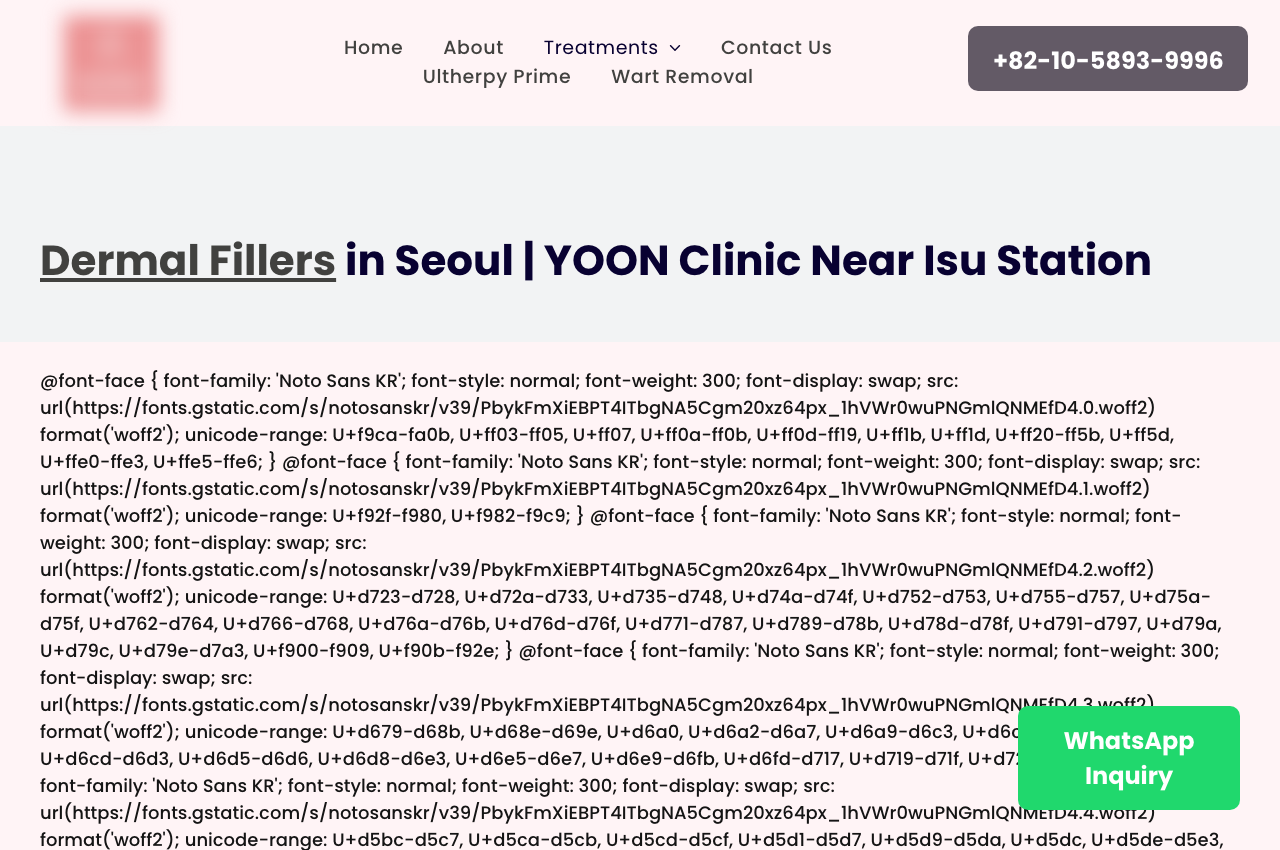
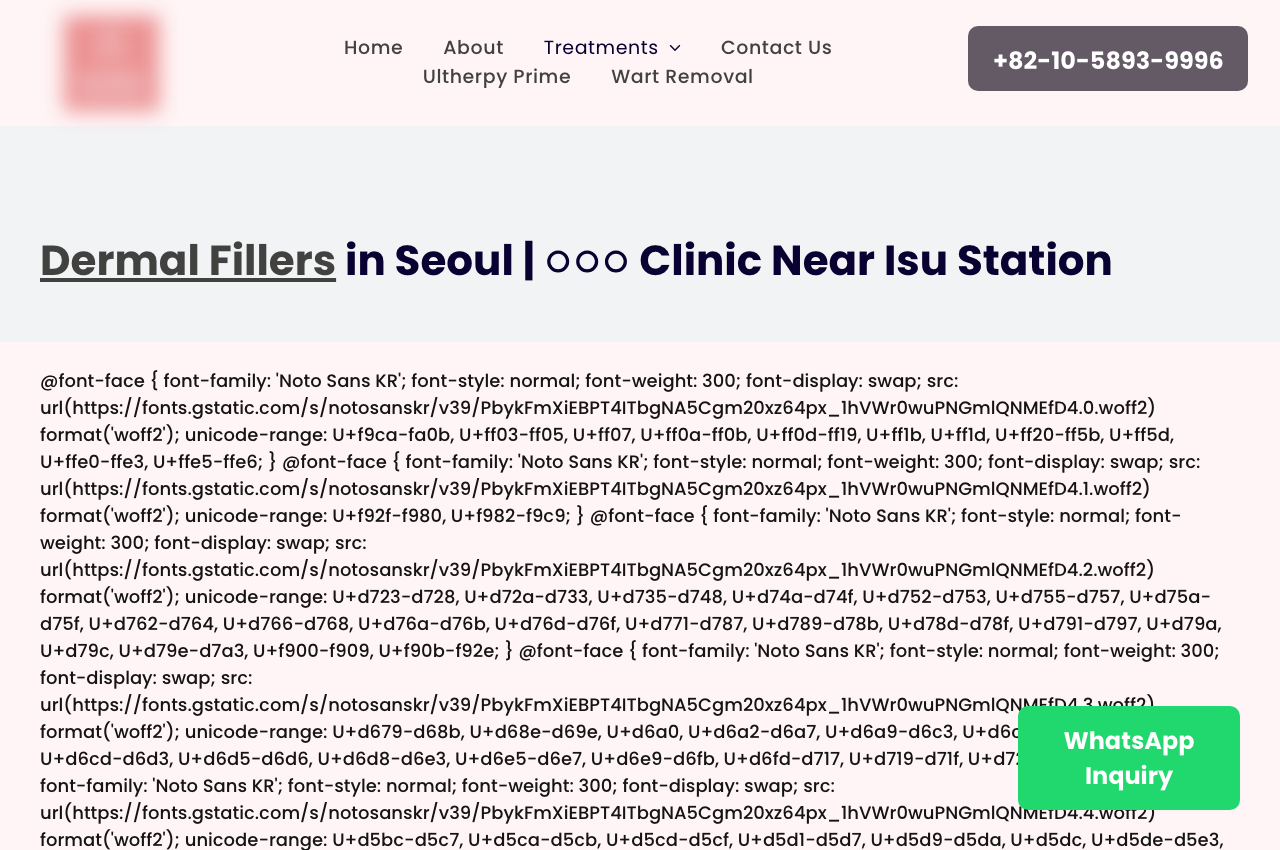
지적 사항 일괄 수정 (94장)
- 방치 페이지 캡처 재촬영: Yoon 표기까지 마스킹
- 사례 커버: '이 순서를 적용한 기록' → '실제 사례, 서울의 한
  피부과' + 작업 내용 부제(검색 노출 · 원장 프로필 · 영문 사이트)
- 계절 키워드 화면을 깃허브 V1(개발자 협업판) /demo 검색 트렌드로
  교체 (급상승 검색어 · 월별 추이)
- 월간 브리프를 ○○○의원 실제 브리프(clinic-geo-monitor 생성,
  마스킹)로 교체, 관측 방법 박스는 한 줄로 축소
- '먼저 이길 질문' → '좁은 질문부터 선점하기', 우선순위 공식을
  하단 작은 글씨에서 rsub(좌상단 본문)로 승격
- 리드젠랩 · OntheAI 등 경쟁사 명칭 출처 제거 → '업계 공개 분석
  데이터 · 자체 검증 전'으로 일반화
- 정보 일치(마감시간) 표 → 가상의 예시 SVG (3채널 카드가 점선으로
  AI 칩에 모임 · 'GEO 하기 전에 이것부터'를 본문 위치로)
- 인박스 항목 건조화(채널별 문의 통합 등) · 원장 프로필 캡처를
  경력 텍스트 구간으로 재촬영

Changed region(s): [[0.4062, 0.2753, 0.9062, 0.3365]]

diff --git a/index.html b/index.html
@@ -869,7 +869,7 @@
       <li>구글 1위 글이 챗GPT 답변에는 안 나오는 경우가 흔함</li>
       <li>반대로 순위 낮은 글이 인용되기도 함 · 기준이 다르기 때문</li>
     </ul>
-    <p class="srcline">출처 : Onthe AI 블로그 공개 자료 (2026) · 해당 업체 고객 데이터 기준</p>
+    <p class="srcline">출처 : 국내 GEO 업계 공개 분석 ) · 해당 업체 고객 데이터 기준</p>
   </section>
 
   <section class="slide content tint">
@@ -920,7 +920,7 @@
       <li>챗GPT 하나만 검색해 보고 "우리 잘 나오네"로 판단할 수 없음</li>
       <li>질문 하나가 곧 경쟁 병원 5곳과의 비교 화면</li>
     </ul>
-    <p class="srcline">출처 : Onthe AI 블로그 공개 분석 (2026) · 해당 업체 데이터 기준</p>
+    <p class="srcline">출처 : 국내 GEO 업계 공개 분석 ) · 업체 공개 데이터 기준 · 자체 검증 전</p>
   </section>
 
   <section class="slide content tint">
@@ -1159,8 +1159,7 @@
       <div class="smq"><div class="sn">5</div><div class="st">검증</div><div class="sd">"A원장 경력이랑 후기 알려줘"</div></div>
     </div>
     <p class="note">1~2번에는 병원명이 없고, 4~5번에서 병원명 · 원장명이 등장 · 단계마다 답이 되는 문서가 다름</p>
-    <p class="srcline">질문 여정을 단계로 나누는 구분은 업계 프레임 (리드젠랩 공개 자료 : 증상 → 병원 탐색 → 특정 병원 확인)</p>
-  </section>
+    </section>
 
   <section class="slide content">
     <span class="eyebrow accent">질문 단위</span>
@@ -1267,13 +1266,41 @@
   <section class="slide content tint">
     <span class="eyebrow accent">정보 일치</span>
     <h2>같은 병원, 채널마다 다른 정보</h2>
-    <div class="numrow" style="margin-bottom:14px">
-      <div><div class="nv" style="color:var(--ink-soft)">19시</div><div class="nl">플레이스 마감</div></div>
-      <div><div class="nv" style="color:var(--ink-soft)">20시</div><div class="nl">홈페이지 마감</div></div>
-      <div><div class="nv" style="color:var(--ink-soft)">21시</div><div class="nl">블로그 글 속 마감</div></div>
-      <div><div class="nv down">?</div><div class="nl">AI가 답하는 마감</div></div>
+    <p class="rsub">GEO 하기 전에 이것부터 맞춰야 하는 병원도 많습니다 · 가상의 예시</p>
+    <div style="margin-top:12px">
+    <svg viewBox="0 0 1140 330" style="width:100%;height:auto;font-family:inherit">
+      <g fill="none" stroke="#c3ccd8" stroke-width="1.4" stroke-dasharray="3 9">
+        <path d="M190 176 C 300 240 440 260 540 262"/>
+        <path d="M450 176 C 500 220 530 240 555 252"/>
+        <path d="M710 176 C 660 220 620 240 590 252"/>
+      </g>
+      <g>
+        <rect x="90" y="60" width="200" height="116" rx="14" fill="#fff" stroke="#dfe4ec"/>
+        <circle cx="122" cy="92" r="10" fill="none" stroke="#8a919c" stroke-width="1.6"/><path d="M122 86v6l4 3" stroke="#8a919c" stroke-width="1.6" fill="none"/>
+        <text x="145" y="97" font-size="13.5" fill="#5b6b84">플레이스</text>
+        <text x="112" y="140" font-size="21" font-weight="600" fill="#16324f">마감 19:00</text>
+        <rect x="350" y="60" width="200" height="116" rx="14" fill="#fff" stroke="#dfe4ec"/>
+        <rect x="368" y="82" width="22" height="16" rx="3" fill="none" stroke="#8a919c" stroke-width="1.6"/>
+        <text x="400" y="97" font-size="13.5" fill="#5b6b84">홈페이지</text>
+        <text x="372" y="140" font-size="21" font-weight="600" fill="#16324f">마감 20:00</text>
+        <rect x="610" y="60" width="200" height="116" rx="14" fill="#fff" stroke="#dfe4ec"/>
+        <path d="M630 82h20v16h-14l-6 5z" fill="none" stroke="#8a919c" stroke-width="1.6"/>
+        <text x="660" y="97" font-size="13.5" fill="#5b6b84">블로그 글</text>
+        <text x="632" y="140" font-size="21" font-weight="600" fill="#16324f">마감 21:00</text>
+      </g>
+      <g>
+        <rect x="450" y="252" width="240" height="60" rx="14" fill="#eef4fd" stroke="#9db8e8"/>
+        <path d="M486 274l1.4 3.8 3.8 1.3-3.8 1.4-1.4 3.7-1.3-3.7-3.8-1.4 3.8-1.3z" fill="none" stroke="#246beb" stroke-width="1.6"/>
+        <text x="585" y="286" text-anchor="middle" font-size="16" font-weight="600" fill="#003675">AI가 답하는 마감 : ?</text>
+      </g>
+      <g>
+        <rect x="880" y="70" width="230" height="96" rx="14" fill="#f4f5f7" stroke="#e2e5ea"/>
+        <text x="995" y="106" text-anchor="middle" font-size="14" font-weight="600" fill="#6b7380">셋 중 무엇을 믿어야 할까</text>
+        <text x="995" y="130" text-anchor="middle" font-size="12.5" fill="#8a919c">틀린 답의 원인은 대부분</text>
+        <text x="995" y="148" text-anchor="middle" font-size="12.5" fill="#8a919c">병원이 남긴 옛 정보</text>
+      </g>
+    </svg>
     </div>
-    <p class="note">GEO 하기 전에 이것부터 맞춰야 하는 병원도 많습니다</p>
   </section>
 
   <section class="slide content">
@@ -1585,7 +1612,8 @@
 
   <section class="slide content">
     <span class="eyebrow accent">우선순위</span>
-    <h2>먼저 이길 질문 · 좁은 질문부터</h2>
+    <h2>좁은 질문부터 선점하기</h2>
+    <p class="rsub">우선순위 판단 : 시장 크기 × 우리 전문성 × 보유 콘텐츠 × 경쟁 강도 × 환자 가치</p>
     <div class="cmp">
       <div class="col bad"><div class="h">넓은 질문</div><div style="display:flex;gap:8px;align-items:center;margin-top:10px"><svg viewBox="0 0 24 24" style="width:21px;height:21px;fill:none;stroke:#8a919c;stroke-width:1.7;stroke-linecap:round;stroke-linejoin:round"><circle cx="12" cy="12" r="9"/><path d="M3.5 12h17"/></svg><span style="font-size:12px;color:#8a919c">정면 경쟁</span></div>
         <ul>
@@ -1600,9 +1628,7 @@
           <li><i class="mk o">·</i><span>진료 기준이 드러나는 질문 · 답하는 병원이 적음</span></li>
         </ul></div>
     </div>
-    <p class="note">우선순위 판단 : 시장 크기 × 우리 전문성 × 보유 콘텐츠 × 경쟁 강도 × 환자 가치</p>
-    <p class="srcline">대표 시술의 넓은 질문보다 강점 시술 · 증상 질문을 나눠 기준선을 측정하는 접근 (리드젠랩 공개 자료)</p>
-  </section>
+    </section>
 
   <section class="slide content tint">
     <span class="eyebrow accent">측정 루프</span>
@@ -1618,7 +1644,7 @@
       <div class="harrow"><svg viewBox="0 0 24 24"><path d="M5 12h14M13 6l6 6-6 6"/></svg></div>
       <div class="hstep"><div class="hn">5</div><div class="ht">재측정</div><div class="hd">같은 질문으로 → 1</div></div>
     </div>
-    <p class="srcline">업계 사례 : 48시간 주기 · 최대 200개 질문 모니터링 (Onthe AI 공개 자료) · 병원은 여기에 의료광고법 · 네이버 · 리뷰 · 다국어가 더해짐</p>
+    <p class="srcline">업계 사례 : 48시간 주기 · 최대 200개 질문 모니터링 (업계 공개 자료) · 병원은 여기에 의료광고법 · 네이버 · 리뷰 · 다국어가 더해짐</p>
   </section>
 
   <section class="slide content tint">
@@ -1628,17 +1654,10 @@
     <div class="ev two">
       <div class="evshot"><div class="eh"><b>GEO 모니터</b> 일일 관측<span class="src">2026.08</span></div>
         <figure><img src="assets/work/monitor-yoon.png" alt="GEO 모니터" /></figure></div>
-      <div class="evshot"><div class="eh"><b>월간 브리프</b> 원장 전달본<span class="src">2026.08</span></div>
-        <figure><img src="assets/work/doctor-brief.png" alt="월간 브리프" /></figure></div>
+      <div class="evshot"><div class="eh"><b>월간 브리프</b> ○○○의원 원장 전달본<span class="src">2026.08</span></div>
+        <figure><img src="assets/work/yoon-brief.png" alt="월간 브리프" /></figure></div>
     </div>
-    <div class="doc" style="margin-top:10px;padding:14px 18px">
-      <div style="display:flex;gap:22px;flex-wrap:wrap;font-size:13px;color:var(--ink-soft)">
-        <span><b style="color:var(--accent-deep)">관측 방법</b></span>
-        <span>검색어 · 질문 목록 고정</span><span>주기 고정 (일 단위)</span>
-        <span>같은 질문 반복 측정</span><span>수집 시점 · 엔진을 리포트에 명기</span>
-      </div>
-    </div>
-    <p class="note">오른 것이 없으면 없다고 적음 · 관측 결과가 다음 달 작업 목록을 정함 · AI 답변은 확률적이라 한 번 캡처로 판단하지 않음</p>
+    <p class="note" style="margin-top:8px"><b style="color:var(--accent-deep)">관측 방법</b> · 검색어 · 질문 목록 고정 · 주기 고정(일 단위) · 같은 질문 반복 측정 · 수집 시점 · 엔진 명기 · 오른 것이 없으면 없다고 적음 · 관측 결과가 다음 달 작업 목록을 정함 · AI 답변은 확률적이라 한 번 캡처로 판단하지 않음</p>
   </section>
 
   <section class="slide content tint">
@@ -1700,10 +1719,10 @@
         <figure><img src="assets/work/crm-inbox.png" alt="상담 인박스" /></figure></div>
       <div>
         <ul class="wlist">
-          <li>문의가 채널별로 <b>한 화면에</b> · 미응대부터 처리</li>
-          <li>병원 카탈로그 근거로 <b>AI가 답변 초안</b> · 실장은 확인 · 전송</li>
-          <li>외국인 문의도 같은 화면에서 · <b>언어 장벽으로 놓치는 예약 감소</b></li>
-          <li>응대 속도가 곧 전환율 · 놓친 문의가 곧 이탈</li>
+          <li><b>채널별 문의 통합</b> · 미응대 우선 처리</li>
+          <li>병원 카탈로그 기반 <b>AI 답변 초안</b> · 실장 확인 후 전송</li>
+          <li>외국인 문의 포함 · <b>언어로 놓치는 예약 감소</b></li>
+          <li>응대 속도 = 전환율 · 미응대 = 이탈</li>
         </ul>
         <p class="note">상담실장의 반복 답변 부담을 줄이면서, 답변 품질은 병원 기준으로 고정</p>
       </div>
@@ -1728,7 +1747,7 @@
     <h2>계절 키워드로 잡는 이벤트 · 패키지 시점</h2>
     <p class="rsub">시술 검색 트렌드 모니터링 화면 · 예시 데이터</p>
     <div class="ev side">
-      <div class="evshot"><div class="eh"><b>검색 트렌드</b> · 시술별 · 계절별 추이<span class="src">예시 데이터</span></div>
+      <div class="evshot"><div class="eh"><b>검색 트렌드</b> · 급상승 검색어 · 월별 추이<span class="src">예시 데이터</span></div>
         <figure><img src="assets/work/mb-trend.png" alt="검색 트렌드 화면" /></figure></div>
       <div>
         <ul class="wlist">
@@ -1805,8 +1824,8 @@
     <span class="spark" style="top:26%;left:71%"></span><span class="spark" style="top:58%;left:81%;animation-delay:1.2s"></span>
     <div class="cover-art"><svg viewBox="0 0 600 600"><rect x="120" y="140" width="240" height="300" rx="18"/><path d="M240 210v120M180 270h120" stroke-width="2"/><rect x="300" y="330" width="200" height="240" rx="14"/><line x1="330" y1="380" x2="470" y2="380"/><line x1="330" y1="420" x2="450" y2="420"/><line x1="330" y1="460" x2="470" y2="460"/><path d="M330 510l16 16 30-32"/></svg></div>
     <span class="eyebrow"><span class="n">[ 4-1 ]</span></span>
-    <h1>이 순서를 적용한 기록,<br>서울의 한 피부과</h1>
-    <p class="lead" style="margin-top:20px;max-width:46ch">진행 중 · 병원명 비공개 · 전부 작업일지와 실제 화면 기준</p>
+    <h1>실제 사례,<br>서울의 한 피부과</h1>
+    <p class="lead" style="margin-top:20px;max-width:46ch">검색 노출 · 원장 프로필 · 영문 사이트 개선 작업 · 병원명 비공개 · 전부 실제 화면</p>
   </section>
 
   <section class="slide content">
